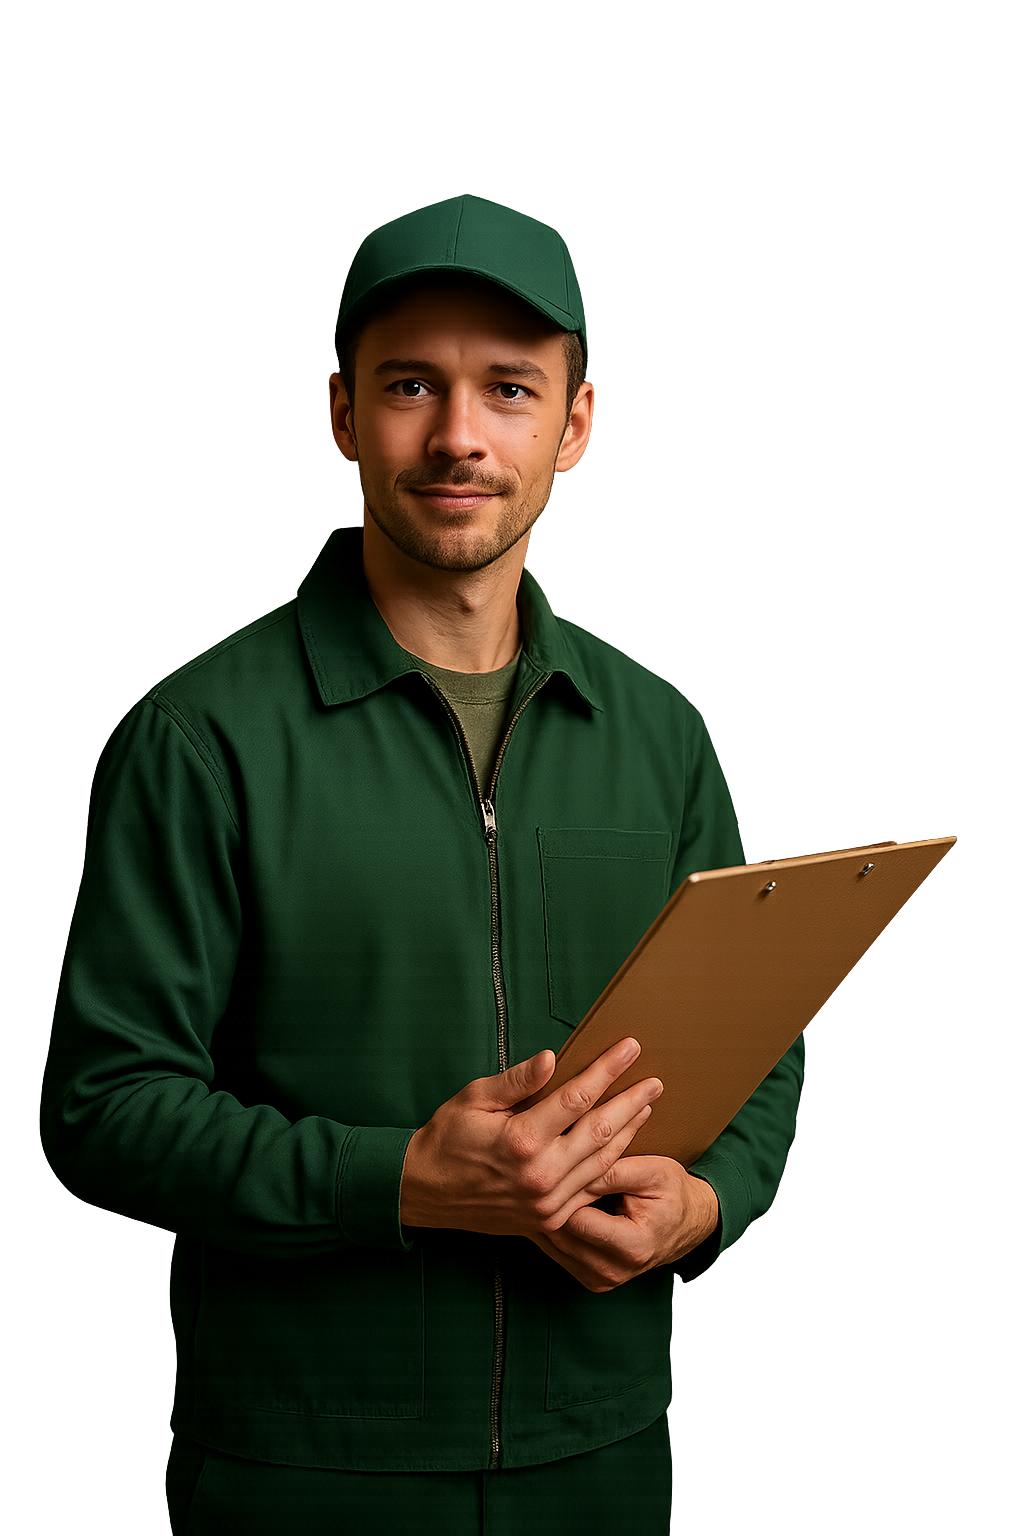
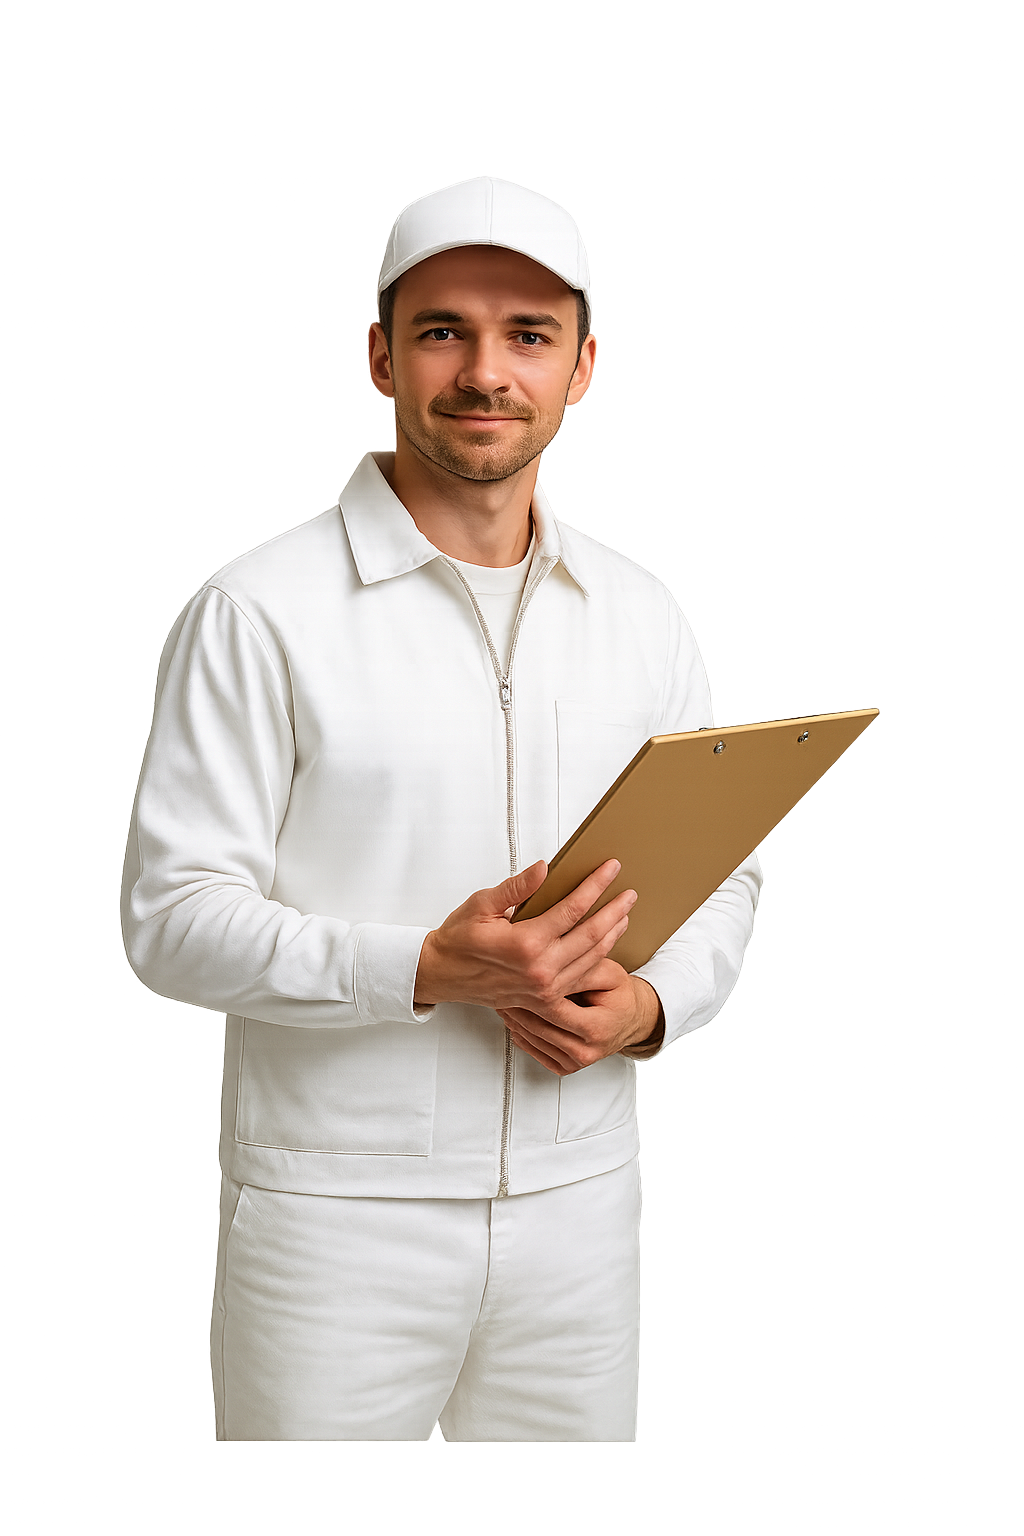
adjusted image

diff --git a/src/components/Find.css b/src/components/Find.css
@@ -54,7 +54,7 @@
 }
 
 .storage-image2 {
-    height: 506px;
+    height: 538px;
     width: 390px;
 }
 
